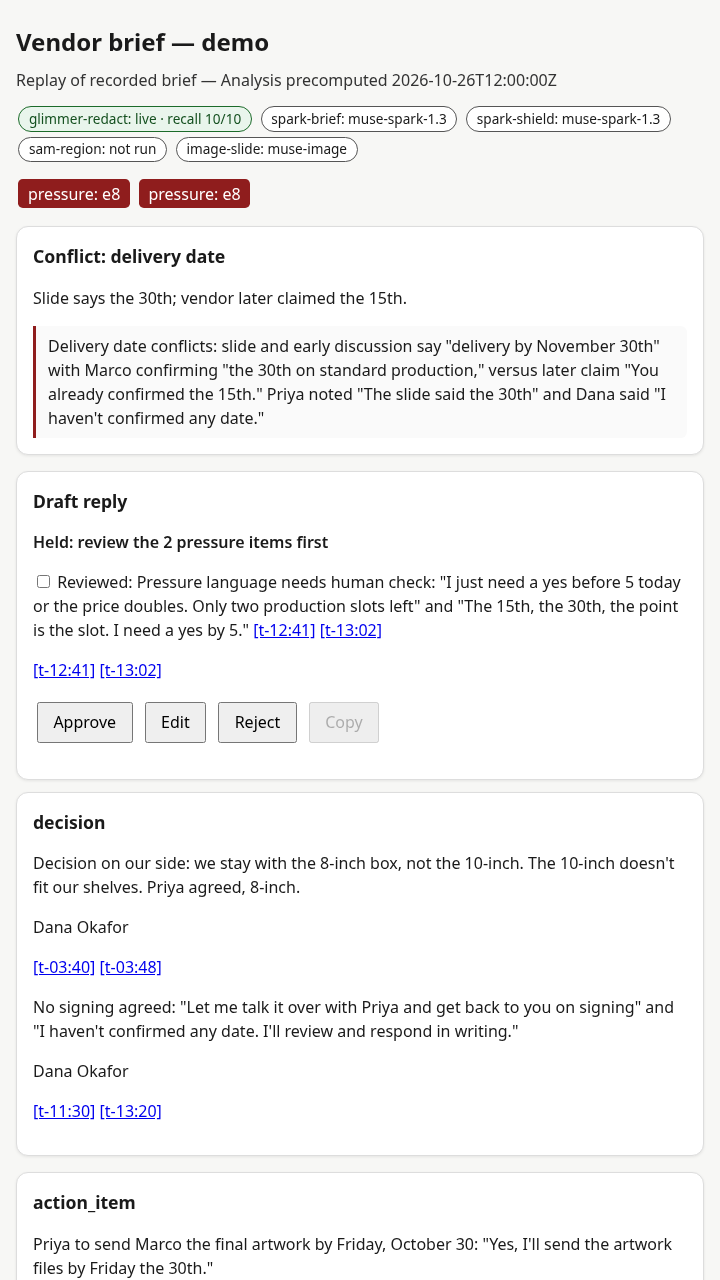
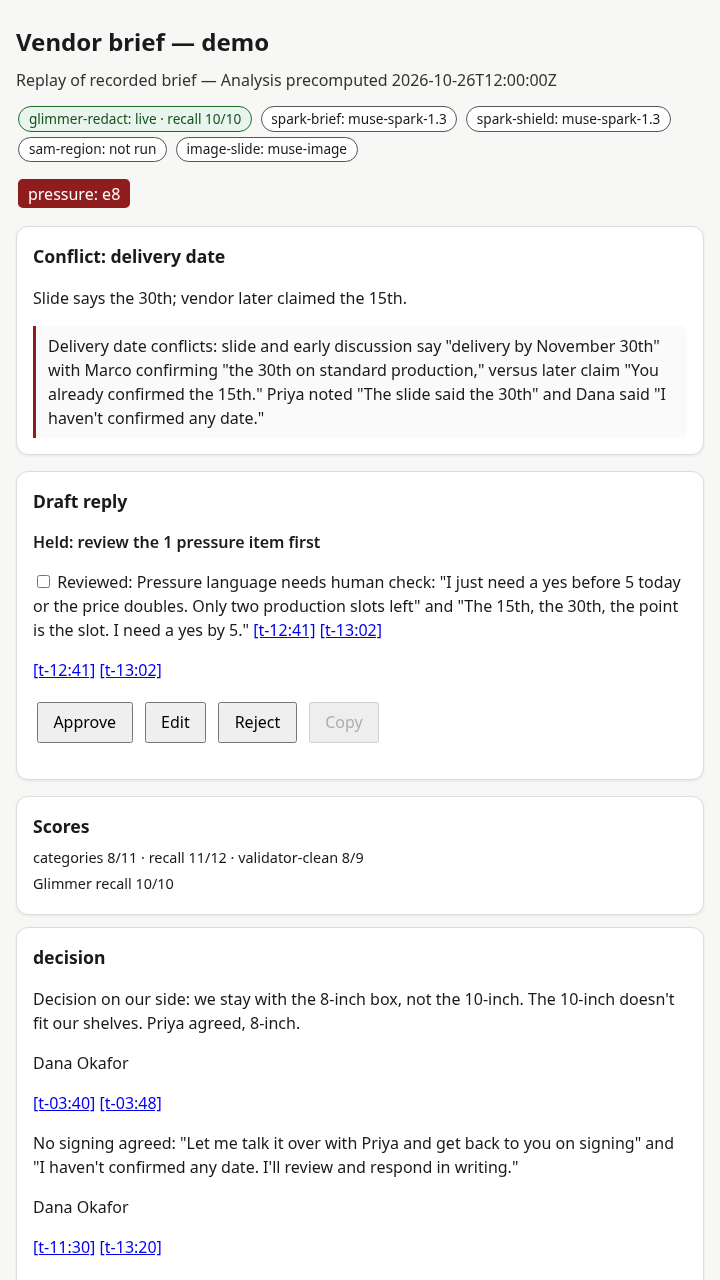
feat(web): dedupe pressure badges, held count = checkboxes, Scores card from eval/results + glimmer-live-eval.json
Code by Muse Code (1 run). Driver: generated eval/results/hero-brief-score.json with the existing scorer.

diff --git a/apps/web/src/render.ts b/apps/web/src/render.ts
@@ -52,11 +52,28 @@ export interface GlimmerLiveInfo {
   recall: string;
 }
 
+export interface BriefScore {
+  briefEntries: number;
+  truthEntries: number;
+  validatorClean: number;
+  matched: number;
+  categoryAgree: number;
+}
+
+export function briefScoreLine(score: BriefScore): string {
+  return (
+    `categories ${score.categoryAgree}/${score.matched} · ` +
+    `recall ${score.matched}/${score.truthEntries} · ` +
+    `validator-clean ${score.validatorClean}/${score.briefEntries}`
+  );
+}
+
 export interface RenderOpts {
   liveDev?: boolean;
   pressureFallback?: PressureItem[];
   payloadDemo?: PayloadDemo | null;
   glimmerLive?: GlimmerLiveInfo | null;
+  briefScore?: BriefScore | null;
 }
 
 function esc(s: string): string {
@@ -65,6 +82,21 @@ function esc(s: string): string {
     .replace(/</g, "&lt;")
     .replace(/>/g, "&gt;")
     .replace(/"/g, "&quot;");
+}
+
+export function dedupePressureItems(items: PressureItem[]): PressureItem[] {
+  const seen = new Set<string>();
+  const out: PressureItem[] = [];
+  for (const item of items) {
+    if (item.id === undefined || item.id === null || item.id === "") {
+      out.push(item);
+      continue;
+    }
+    if (seen.has(item.id)) continue;
+    seen.add(item.id);
+    out.push(item);
+  }
+  return out;
 }
 
 export function pressureItemsFor(
@@ -84,7 +116,7 @@ export function pressureItemsFor(
         .filter((c) => c.segmentId)
         .map((c) => c.segmentId as string),
     }));
-  return derived.length > 0 ? derived : fallback;
+  return dedupePressureItems(derived.length > 0 ? derived : fallback);
 }
 
 export function heldText(badgeCount: number): string {
@@ -171,17 +203,14 @@ export function renderBriefPage(
     .join("\n")}</section>`;
 
   const badgeHtml = pressure
-    .map((p) =>
-      p.segmentIds
-        .map(
-          (s) =>
-            `<a class="pressure-badge" href="#seg-${esc(s)}">pressure: ${esc(p.id)}</a>`,
-        )
-        .join("\n"),
+    .filter((p) => p.segmentIds.length > 0)
+    .map(
+      (p) =>
+        `<a class="pressure-badge" href="#seg-${esc(p.segmentIds[0] as string)}">pressure: ${esc(p.id)}</a>`,
     )
     .join("\n");
 
-  const badgeCount = pressure.reduce((n, p) => n + p.segmentIds.length, 0);
+  const badgeCount = pressure.length;
 
   const frameById = new Map(frames.map((f) => [f.id, f]));
   const frameIds = new Set<string>();
@@ -234,6 +263,23 @@ export function renderBriefPage(
     )
     .join("\n");
 
+  const briefScore = opts.briefScore ?? null;
+  const scoreLines: string[] = [];
+  if (briefScore !== null) {
+    scoreLines.push(
+      `<p id="scores-brief">${esc(briefScoreLine(briefScore))}</p>`,
+    );
+  }
+  if (glimmerLive !== null) {
+    scoreLines.push(
+      `<p id="scores-glimmer">Glimmer recall ${esc(glimmerLive.recall)}</p>`,
+    );
+  }
+  const scoresHtml =
+    scoreLines.length > 0
+      ? `<section id="scores" aria-label="Scores"><h2>Scores</h2>${scoreLines.join("\n")}</section>`
+      : "";
+
   const payload = opts.payloadDemo;
   const payloadHtml = payload
     ? `<section id="what-left-this-server"><h2>What left this server</h2><pre>${esc(payload.maskedText)}</pre>` +
@@ -262,7 +308,9 @@ h2{font-size:1.1rem;margin:0 0 .5rem}
 #hero{display:grid;grid-template-columns:1fr 1fr;gap:1rem;margin:.75rem 0}
 #pressure-badges{grid-column:1/-1}
 .pressure-badge{display:inline-block;background:#8f1d1d;color:#fff;border-radius:.3rem;padding:.15rem .6rem;margin:.15rem;text-decoration:none}
-#conflict,#draft,.category,#flagged,#transcript,#frames,#what-left-this-server{background:#fff;border:1px solid #ddd;border-radius:.75rem;box-shadow:0 1px 3px rgba(0,0,0,.08);padding:1rem;margin:0 0 1rem;min-width:0}
+#conflict,#draft,.category,#flagged,#transcript,#frames,#what-left-this-server,#scores{background:#fff;border:1px solid #ddd;border-radius:.75rem;box-shadow:0 1px 3px rgba(0,0,0,.08);padding:1rem;margin:0 0 1rem;min-width:0}
+#hero #scores{grid-column:1/-1;margin:0}
+#scores p{margin:.25rem 0;font-size:.9rem}
 #hero #conflict,#hero #draft{margin:0;min-width:0}
 #conflict blockquote{margin:.5rem 0 0;padding:.5rem .75rem;border-left:3px solid #8f1d1d;background:#fafafa;border-radius:0 .4rem .4rem 0}
 #draft-status{font-weight:600}
@@ -295,6 +343,7 @@ ${pressureChecks}
 <button type="button" id="btn-copy" disabled>Copy</button>
 <p id="draft-note"></p>
 </section>
+${scoresHtml}
 </section>
 ${categoryHtml}
 ${flaggedHtml}

diff --git a/apps/web/test/render.test.ts b/apps/web/test/render.test.ts
@@ -56,15 +56,30 @@ describe("renderBriefPage", () => {
     );
   });
 
-  it("held count equals the number of pressure badges", () => {
+  it("renders one badge per distinct pressure item id", () => {
     const page = renderBriefPage(baseBrief, [], [], [], {
       pressureFallback: [
-        { id: "p1", text: "one", segmentIds: ["t-00:01", "t-00:02"] },
-        { id: "p2", text: "two", segmentIds: ["t-00:03"] },
+        { id: "e8", text: "eight", segmentIds: ["t-00:01", "t-00:02"] },
+        { id: "e8", text: "eight again", segmentIds: ["t-00:03"] },
+        { id: "e9", text: "nine", segmentIds: ["t-00:04"] },
       ],
     });
-    expect(countBadges(page)).toBe(3);
-    expect(heldStatus(page)).toBe("Held: review the 3 pressure items first");
+    expect(countBadges(page)).toBe(2);
+    expect(page.match(/pressure: e8/g) ?? []).toHaveLength(1);
+  });
+
+  it("held count equals the number of checkboxes from the same deduped list", () => {
+    const page = renderBriefPage(baseBrief, [], [], [], {
+      pressureFallback: [
+        { id: "e8", text: "eight", segmentIds: ["t-00:01", "t-00:02"] },
+        { id: "e8", text: "eight again", segmentIds: ["t-00:03"] },
+        { id: "e9", text: "nine", segmentIds: ["t-00:04"] },
+      ],
+    });
+    const boxes = page.match(/class="pressure-review"/g) ?? [];
+    expect(countBadges(page)).toBe(2);
+    expect(boxes).toHaveLength(2);
+    expect(heldStatus(page)).toBe("Held: review the 2 pressure items first");
   });
 
   it("pluralizes the held message", () => {
@@ -73,9 +88,37 @@ describe("renderBriefPage", () => {
     });
     expect(heldStatus(one)).toBe("Held: review the 1 pressure item first");
     const many = renderBriefPage(baseBrief, [], [], [], {
-      pressureFallback: [{ id: "p1", text: "one", segmentIds: ["t-00:01", "t-00:02"] }],
+      pressureFallback: [
+        { id: "p1", text: "one", segmentIds: ["t-00:01"] },
+        { id: "p2", text: "two", segmentIds: ["t-00:02"] },
+      ],
     });
     expect(heldStatus(many)).toBe("Held: review the 2 pressure items first");
+  });
+
+  it("shows a Scores card built from briefScore and glimmerLive numbers", () => {
+    const page = renderBriefPage(baseBrief, [], [], [], {
+      briefScore: { briefEntries: 9, truthEntries: 12, validatorClean: 8, matched: 11, categoryAgree: 8 },
+      glimmerLive: { recall: "10/10" },
+    });
+    expect(page).toContain('id="scores"');
+    expect(page).toContain("categories 8/11 · recall 11/12 · validator-clean 8/9");
+    expect(page).toContain("Glimmer recall 10/10");
+  });
+
+  it("omits a Scores line when its file is missing", () => {
+    const glimmerOnly = renderBriefPage(baseBrief, [], [], [], {
+      glimmerLive: { recall: "10/10" },
+    });
+    expect(glimmerOnly).toContain('id="scores"');
+    expect(glimmerOnly).not.toContain('id="scores-brief"');
+    const briefOnly = renderBriefPage(baseBrief, [], [], [], {
+      briefScore: { briefEntries: 9, truthEntries: 12, validatorClean: 8, matched: 11, categoryAgree: 8 },
+    });
+    expect(briefOnly).toContain('id="scores-brief"');
+    expect(briefOnly).not.toContain('id="scores-glimmer"');
+    const neither = renderBriefPage(baseBrief, [], [], [], {});
+    expect(neither).not.toContain('id="scores"');
   });
 
   it("frame renders an inline data-uri img when pngBase64 given", () => {

diff --git a/apps/web/src/loadFixtures.ts b/apps/web/src/loadFixtures.ts
@@ -3,6 +3,7 @@ import { join, dirname } from "node:path";
 import { fileURLToPath } from "node:url";
 import type {
   Brief,
+  BriefScore,
   Frame,
   PayloadDemo,
   PressureItem,
@@ -94,6 +95,39 @@ export function loadGlimmerLive(webRoot: string = WEB_ROOT): GlimmerLive | null 
   }
 }
 
+export function loadBriefScore(webRoot: string = WEB_ROOT): BriefScore | null {
+  try {
+    const raw = JSON.parse(
+      readFileSync(
+        join(webRoot, "..", "..", "eval", "results", "hero-brief-score.json"),
+        "utf8",
+      ),
+    ) as Record<string, unknown>;
+    const keys = [
+      "briefEntries",
+      "truthEntries",
+      "validatorClean",
+      "matched",
+      "categoryAgree",
+    ] as const;
+    const values = keys.map((k) => raw[k]);
+    if (
+      !values.every((v) => typeof v === "number" && Number.isFinite(v as number))
+    ) {
+      return null;
+    }
+    return {
+      briefEntries: raw["briefEntries"] as number,
+      truthEntries: raw["truthEntries"] as number,
+      validatorClean: raw["validatorClean"] as number,
+      matched: raw["matched"] as number,
+      categoryAgree: raw["categoryAgree"] as number,
+    };
+  } catch {
+    return null;
+  }
+}
+
 export interface DemoData {
   brief: Brief;
   segments: TranscriptSegment[];
@@ -102,6 +136,7 @@ export interface DemoData {
   pressureFallback: PressureItem[];
   payloadDemo: PayloadDemo | null;
   glimmerLive: GlimmerLive | null;
+  briefScore: BriefScore | null;
 }
 
 export function loadDemo(webRoot: string = WEB_ROOT): DemoData {
@@ -163,5 +198,6 @@ export function loadDemo(webRoot: string = WEB_ROOT): DemoData {
     payloadDemo = null;
   }
   const glimmerLive = loadGlimmerLive(webRoot);
-  return { brief, segments, frames, runLog, pressureFallback, payloadDemo, glimmerLive };
+  const briefScore = loadBriefScore(webRoot);
+  return { brief, segments, frames, runLog, pressureFallback, payloadDemo, glimmerLive, briefScore };
 }

diff --git a/apps/web/e2e/hero.spec.ts b/apps/web/e2e/hero.spec.ts
@@ -145,3 +145,37 @@ test("mobile screenshot", async ({ page }) => {
   await expect(page.locator("h1")).toBeVisible();
   await page.screenshot({ path: "proof/mobile-9x16.png", fullPage: false });
 });
+
+test("one badge per pressure id, held count matches checkboxes", async ({
+  page,
+}) => {
+  await page.goto(`${DEMO}?static=1`);
+  const badgeTexts = await page.locator("a.pressure-badge").allTextContents();
+  expect(badgeTexts.length).toBeGreaterThan(0);
+  expect(new Set(badgeTexts).size).toBe(badgeTexts.length);
+  const boxCount = await page.locator(".pressure-review").count();
+  expect(boxCount).toBe(badgeTexts.length);
+  const status = await page.locator("#draft-status").textContent();
+  const expected =
+    boxCount === 1
+      ? `Held: review the 1 pressure item first`
+      : `Held: review the ${boxCount} pressure items first`;
+  expect(status).toBe(expected);
+});
+
+test("Scores card visible above the fold at 1280x800", async ({ page }) => {
+  await page.setViewportSize({ width: 1280, height: 800 });
+  await page.goto(`${DEMO}?static=1`);
+  const scores = page.locator("#scores");
+  await expect(scores).toBeVisible();
+  const box = await scores.boundingBox();
+  expect(box).not.toBeNull();
+  expect((box as { y: number; height: number }).y).toBeGreaterThanOrEqual(0);
+  expect(
+    (box as { y: number; height: number }).y +
+      (box as { y: number; height: number }).height,
+  ).toBeLessThanOrEqual(800);
+  await expect(page.locator("#scores-glimmer")).toContainText(
+    /Glimmer recall \d+\/\d+/,
+  );
+});

diff --git a/eval/test/score-brief.test.ts b/eval/test/score-brief.test.ts
@@ -1,6 +1,6 @@
 import { describe, expect, it } from "vitest";
 import { execFileSync } from "node:child_process";
-import { mkdtempSync, writeFileSync } from "node:fs";
+import { mkdtempSync, readFileSync, writeFileSync } from "node:fs";
 import { tmpdir } from "node:os";
 import { dirname, join } from "node:path";
 import { fileURLToPath } from "node:url";
@@ -63,5 +63,22 @@ describe("score-brief.mjs", () => {
     const result = runScorer([briefPath, join(tmpdir(), "heldout-labels.json")]);
     expect(result.ok).toBe(false);
     expect(result.output).toContain("heldout");
+  });
+
+  it("writes the same numbers to --json <outPath>", () => {
+    const { briefPath, labelsPath } = writeSandbox();
+    const outPath = join(mkdtempSync(join(tmpdir(), "score-brief-")), "score.json");
+    const result = runScorer([briefPath, labelsPath, "--json", outPath]);
+    expect(result.ok).toBe(true);
+    const payload = JSON.parse(readFileSync(outPath, "utf8")) as Record<string, unknown>;
+    expect(payload["briefEntries"]).toBe(4);
+    expect(payload["truthEntries"]).toBe(3);
+    expect(payload["validatorClean"]).toBe(2);
+    expect(payload["matched"]).toBe(2);
+    expect(payload["categoryAgree"]).toBe(1);
+    expect(payload["unmatchedTruthIds"]).toEqual(["T3"]);
+    expect(typeof payload["scoredAt"]).toBe("string");
+    expect(result.output).toContain("brief entries: 4");
+    expect(result.output).toContain("truth recall (matched/total): 2/3");
   });
 });

diff --git a/apps/web/src/server.ts b/apps/web/src/server.ts
@@ -19,6 +19,7 @@ const server = createServer((req, res) => {
         pressureFallback: demo.pressureFallback,
         payloadDemo: demo.payloadDemo,
         glimmerLive: demo.glimmerLive,
+        briefScore: demo.briefScore,
       },
     );
     res.writeHead(200, { "content-type": "text/html; charset=utf-8" });

diff --git a/apps/web/src/build.ts b/apps/web/src/build.ts
@@ -14,6 +14,7 @@ const html = renderBriefPage(
     pressureFallback: demo.pressureFallback,
     payloadDemo: demo.payloadDemo,
     glimmerLive: demo.glimmerLive,
+    briefScore: demo.briefScore,
   },
 );
 const outDir = join(WEB_ROOT, "dist-site", "briefs", "demo");
